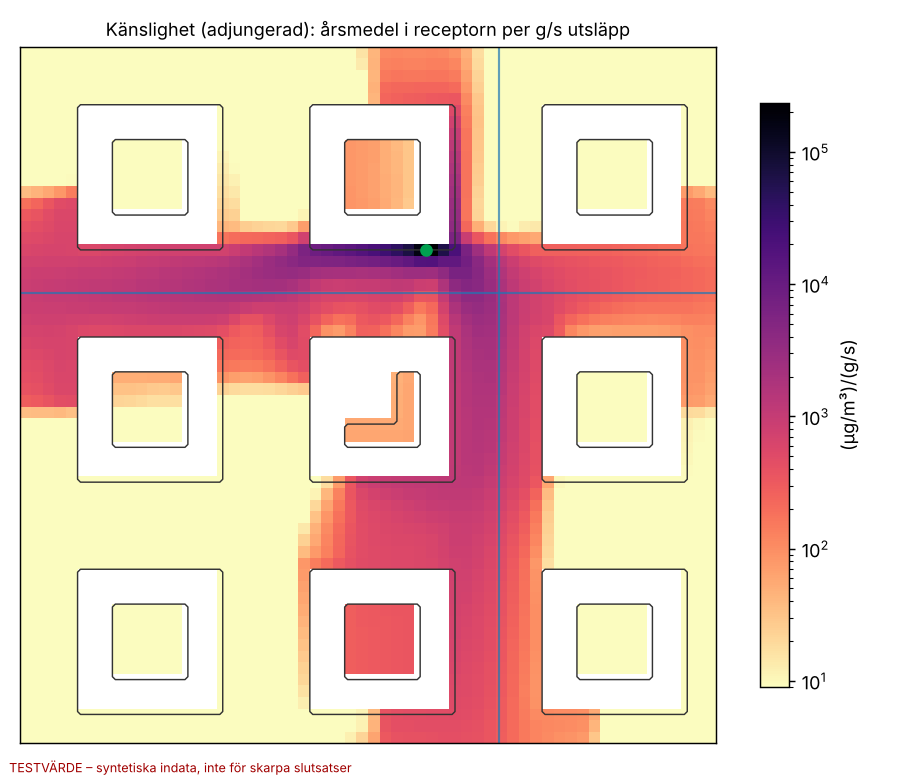
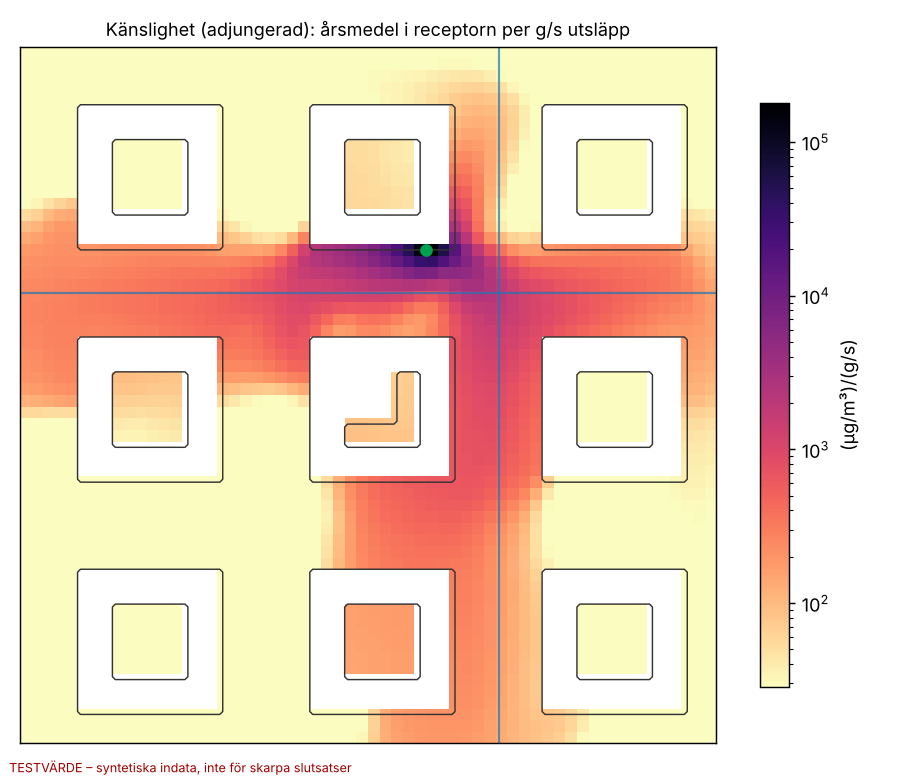
Luft: demobilder omkörda med rättad vindrand
Claude-Session: https://claude.ai/code/session_016wGtwyFkhxFA7Cj5dQ13tR

diff --git a/STATUS.md b/STATUS.md
@@ -5,7 +5,8 @@ Senaste posten överst. Format i `AGENTS.md`.
 ## 2026-11-21 – L-d, L-f, L-g, L-k – Rättad vind, snabbare spridning, vägdamm, vindkomfort för höga hus
 Gjort: Tre parallella agenter och huvudagenten. (1) **L-d (`lbm.py`)**: två fel i L-a hittade och rättade – kraften i den reguljariserade kollisionen var för svag (halverad nära τ = ½; vegetationens broms var halverad) och jämviktsinflödet gav ca 30 % för lågt massflöde. Ny standard: icke-jämviktsextrapolation vid inflödet (Guo m.fl. 2002), tryckutflöde, start från profilen, `u_lattice="auto"` (Mach-mål 0,15). Valbart: väggmodell (log-lag som väggkraft) och syntetiska virvlar (SEM) vid inflödet. Kollision som matrisprodukter med förallokerade buffertar. `u_std_m_s` (byighet) sparas i vindfältet. (2) **L-f (`transport.py`)**: TVD (van Leer/Koren) med begränsaren frusen ur en referenslösning och begränsad till 2/Pe så att operatorn förblir en linjär M-matris; symmetrisk Gauss–Seidel med medvindsnumrering som förkonditionerare (transponerad för adjungerad), multigrid-CG för projektionen. (3) **L-g (`emission.py`)**: vägdamm och avgaser per vägavsnitt och timme av NORTRIP-typ (slitage väg/däck/broms med dubbdäck, sand, salt, dammbindning, städning, vägfukt med dränering och Penman-avdunstning), `testparametrar()` med källa per värde (NORTRIP_python v12-tabellen m.fl.), `timvis_halt` som kombinerar timemission med vindbiblioteket utan att lagra timfält. (4) **L-k (`vindkomfort.py`, `floden luft komfort`/`komfortdemo`)**: vindkomfort och vindfara på gånghöjd enligt NEN 8100 och Lawson LDDC (trösklar med källa), exakt överskridandeandel ur väderserie, GEM ur `u_std`, omräkning av stationsvind via blandningshöjd, före/efter-jämförelse.
 Mätt: **L-d:** Poiseuille vid τ = 0,6 rel. fel `1,0 %` (före: u_max 0,66 av analytisk); massflöde med ny rand `0,998` av profilen (L-a: 0,67–0,73); log-profil över plan mark fel `0,173` utan, `0,078` med väggmodell (men sämre i periodisk kanal: 0,41 mot 0,157 – därför inte standard); SEM-inflöde RMS `0,989` av mål; prestanda `5,05 → 13,2 MLUPS` (64×32×24) och `5,35 → 11,9` (96×48×32); kub H = 8 celler: framför kuben x_F/H `1,04` mot `1,040` (Martinuzzi & Tropea 1993), återanslutning bakom x_r/H `3,09` mot `1,4` (Hearst m.fl. 2016) – faktor 2,2 på grovt rutnät, krymper vid förfining (H = 6: 3,9–4,3). **L-f:** punktkälla mot analytisk lösning med fysikaliskt K, L2-fel uppströms `0,0365` → TVD `0,0101`; massbalans `1e-15–3e-11`; dualitet TVD `4e-16`; lösningstid framåt+adjungerad `19,3 → 2,6 s` (1e5 obekanta), `31,2 → 3,3 s` (1,5e5). **L-g:** massbalans över ett år `1,2e-15`, vattenbalans `5,2e-16`, jämvikt mot P/k `3,5e-15`, `timvis_halt` mot bruteforce `1,6e-15`. **L-k:** överskridande mot bruteforce exakt (`1e-15`), NEN- och Lawson-klassgränser testade. Komfortdemo (60 m höghus i 18 m-kvarter, 4 riktningar, 5 m celler, ca 125 s/riktning på CPU): medelförstärkning på gånghöjd `0,104 → 0,124`, störst ökning `+0,27` vid höghusets nordvästra hörn; alla celler klass A med det syntetiska vädret. Totalt **357** tester gröna (+2 långsamma som hoppas över), ruff och mypy strict rena.
-Öppet: Vindfält och demobilder från L-a är framtagna med det för svaga inflödet och ska inte användas. Gånghöjd kräver 1–2 m celler nära marken – server/GPU. Emissionsparametrarna är testvärden; NOx/avgas-PM saknar källa. Väggmodellen behöver utvärderas mer innan den blir standard.
+Demon `floden luft demo` omkörd med ny rand: halter + adjungerad för 4 riktningar `14.8 s` (L-a: 101 s), max NO₂ `83.3 µg/m³` (testvärden), massbalansfel `2.2e-12`; bilderna i `docs/bilder/` är ersatta.
+Öppet: Vindfält från L-a är framtagna med det för svaga inflödet och ska inte användas. Gånghöjd kräver 1–2 m celler nära marken – server/GPU. Emissionsparametrarna är testvärden; NOx/avgas-PM saknar källa. Väggmodellen behöver utvärderas mer innan den blir standard.
 Nästa: L-b (GPU-körning), L-c (CEDVAL/Michelstadt), kalibrering av L-g mot mätdata, nästlat/förfinat rutnät nära marken för vindkomfort.
 
 ## 2026-11-21 – L-a – Luft i 3D: LBM-LES, linjär spridning med adjungerad lösning, NO₂, vindbibliotek
